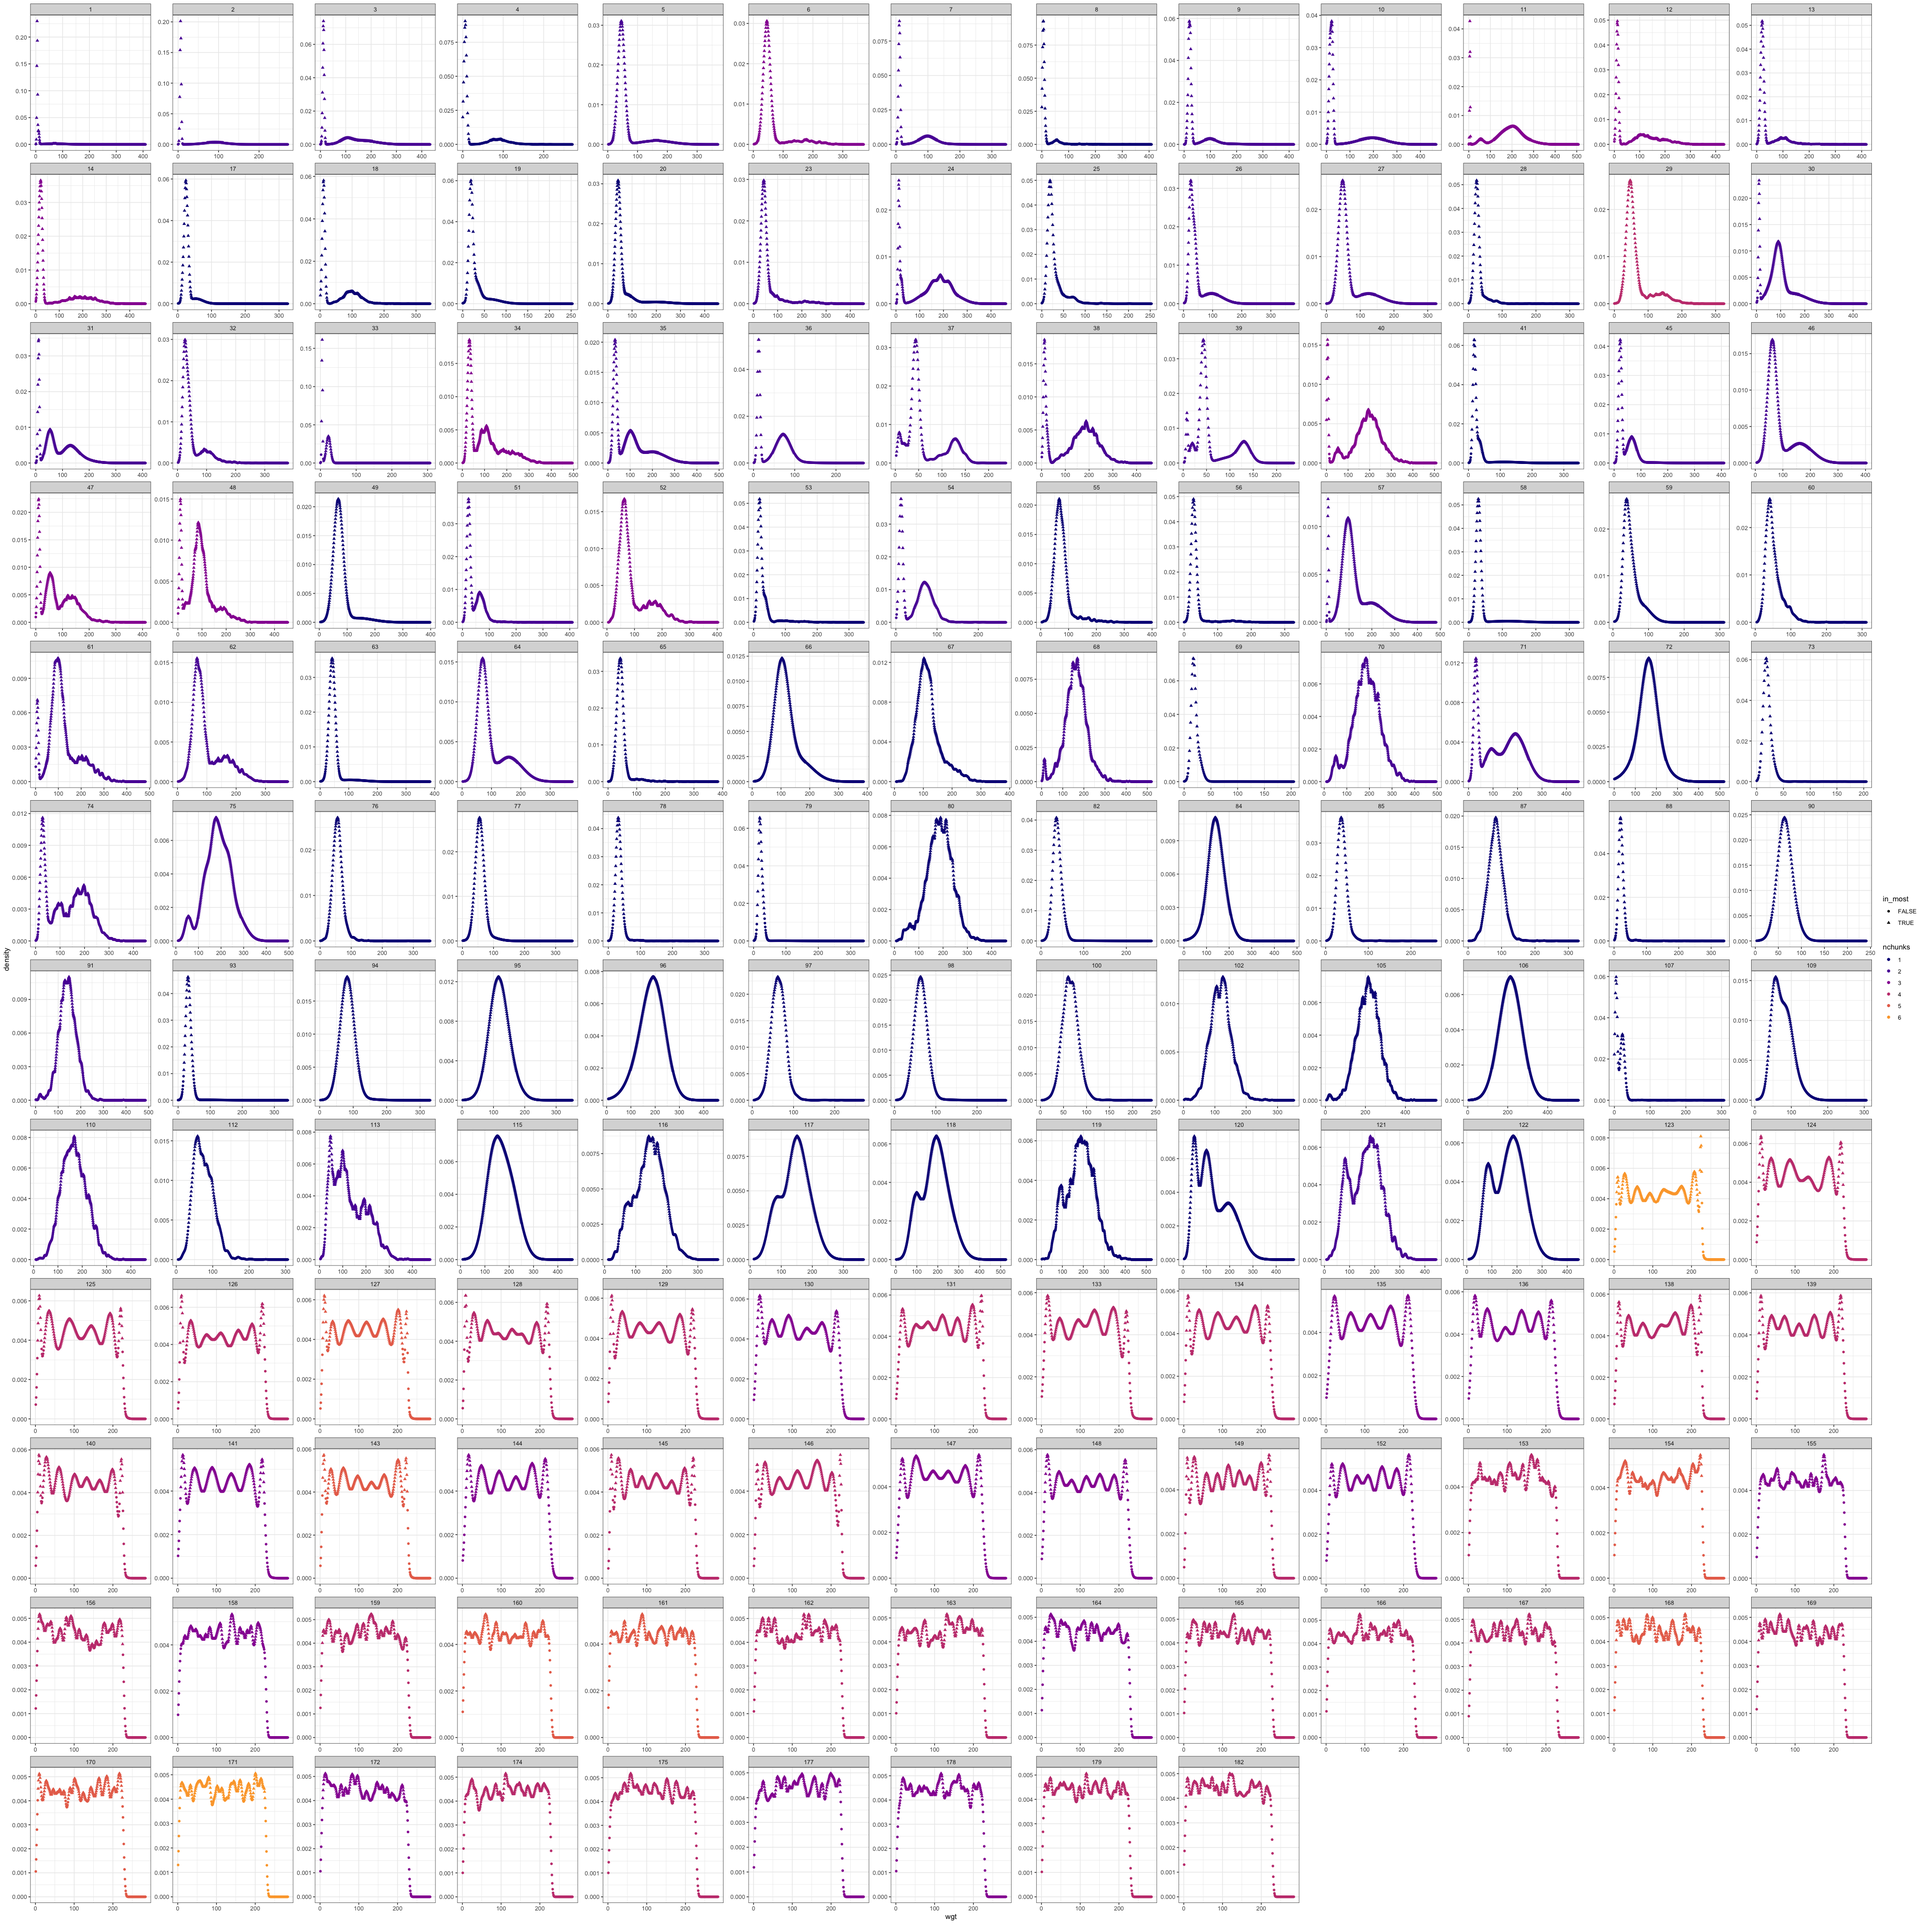
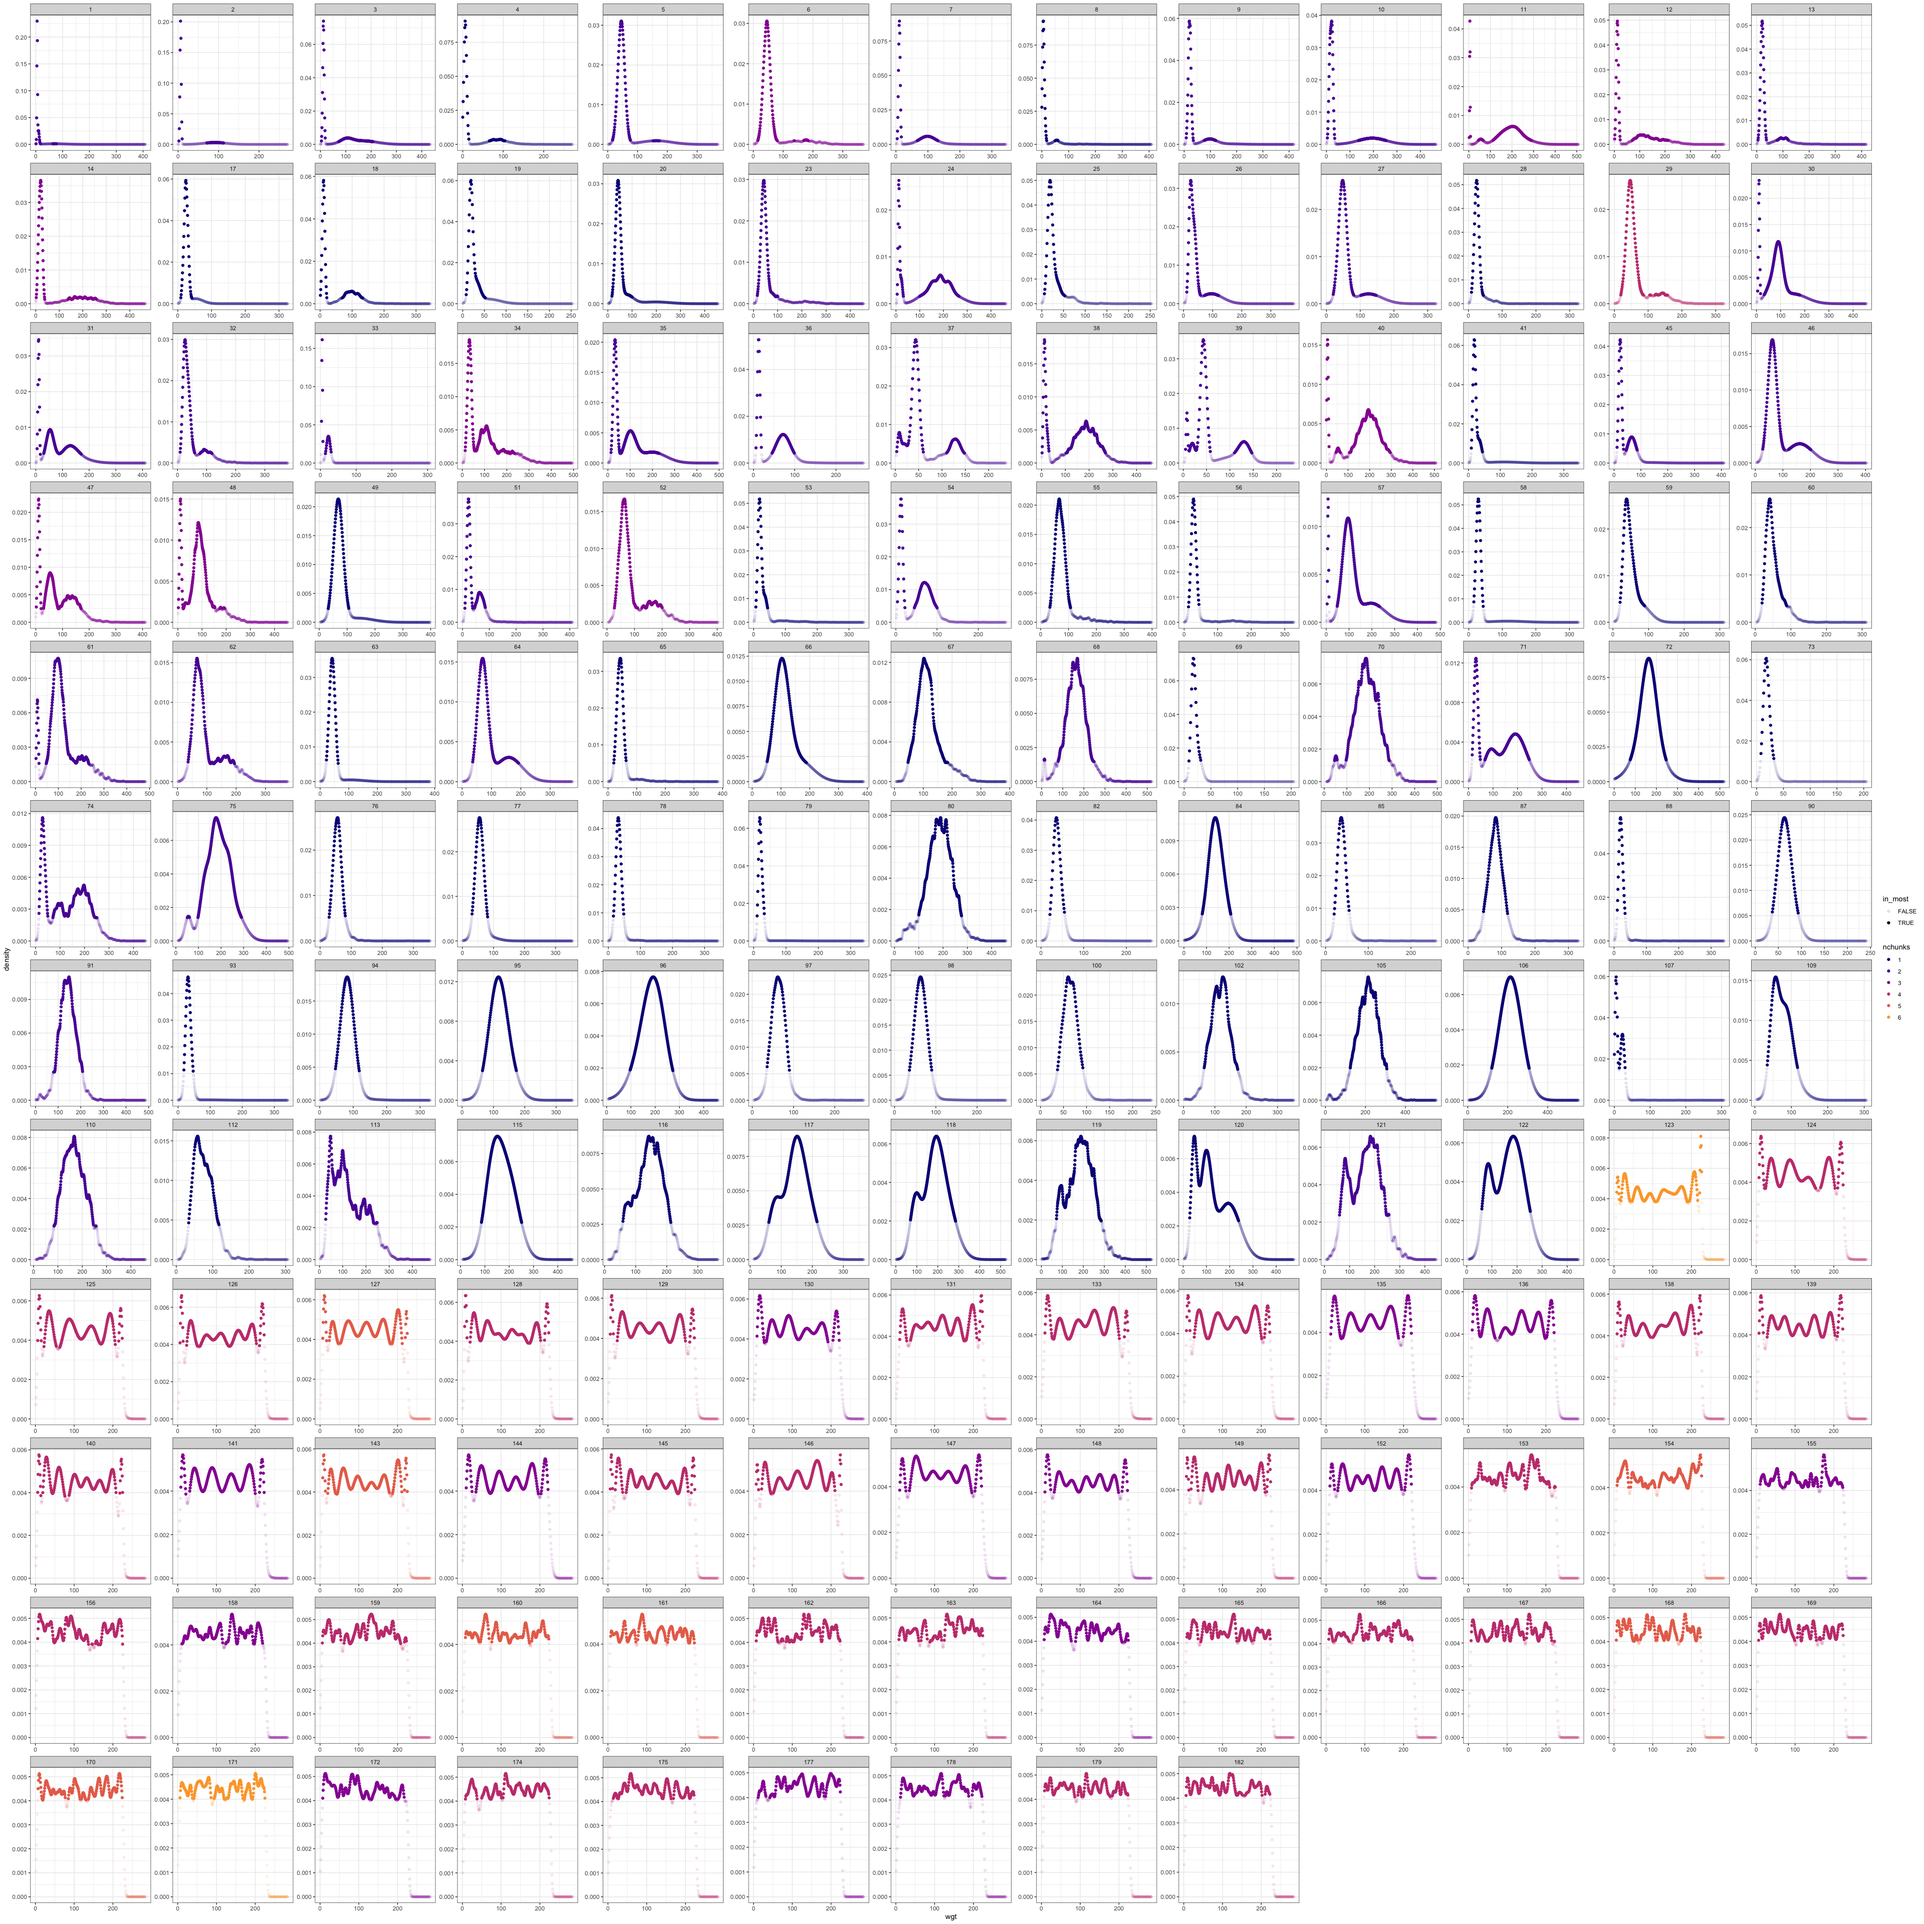
alpha

diff --git a/analysis/turns_etc.md b/analysis/turns_etc.md
@@ -178,12 +178,14 @@ nchunks_plot <- ggplot(data = filter(all, chunk_rank %% 10 == 1), aes(x = wgt, y
 ```
 
 ``` r
-er_plot <- ggplot(data =filter(all, sim <= 25), aes(x = wgt, y = density, color = nchunks, shape = in_most)) +
+er_plot <- ggplot(data =filter(all, sim <= 25), aes(x = wgt, y = density, color = nchunks, alpha = in_most)) +
   geom_point() +
   theme_bw() +
   scale_color_viridis_d(option = "plasma", end = .8) +
   facet_wrap(vars(edges_rank), scales = "free")
 er_plot
 ```
+
+    ## Warning: Using alpha for a discrete variable is not advised.
 
 ![](turns_etc_files/figure-markdown_github/by%20edge%20ratio%20plot-1.png)
